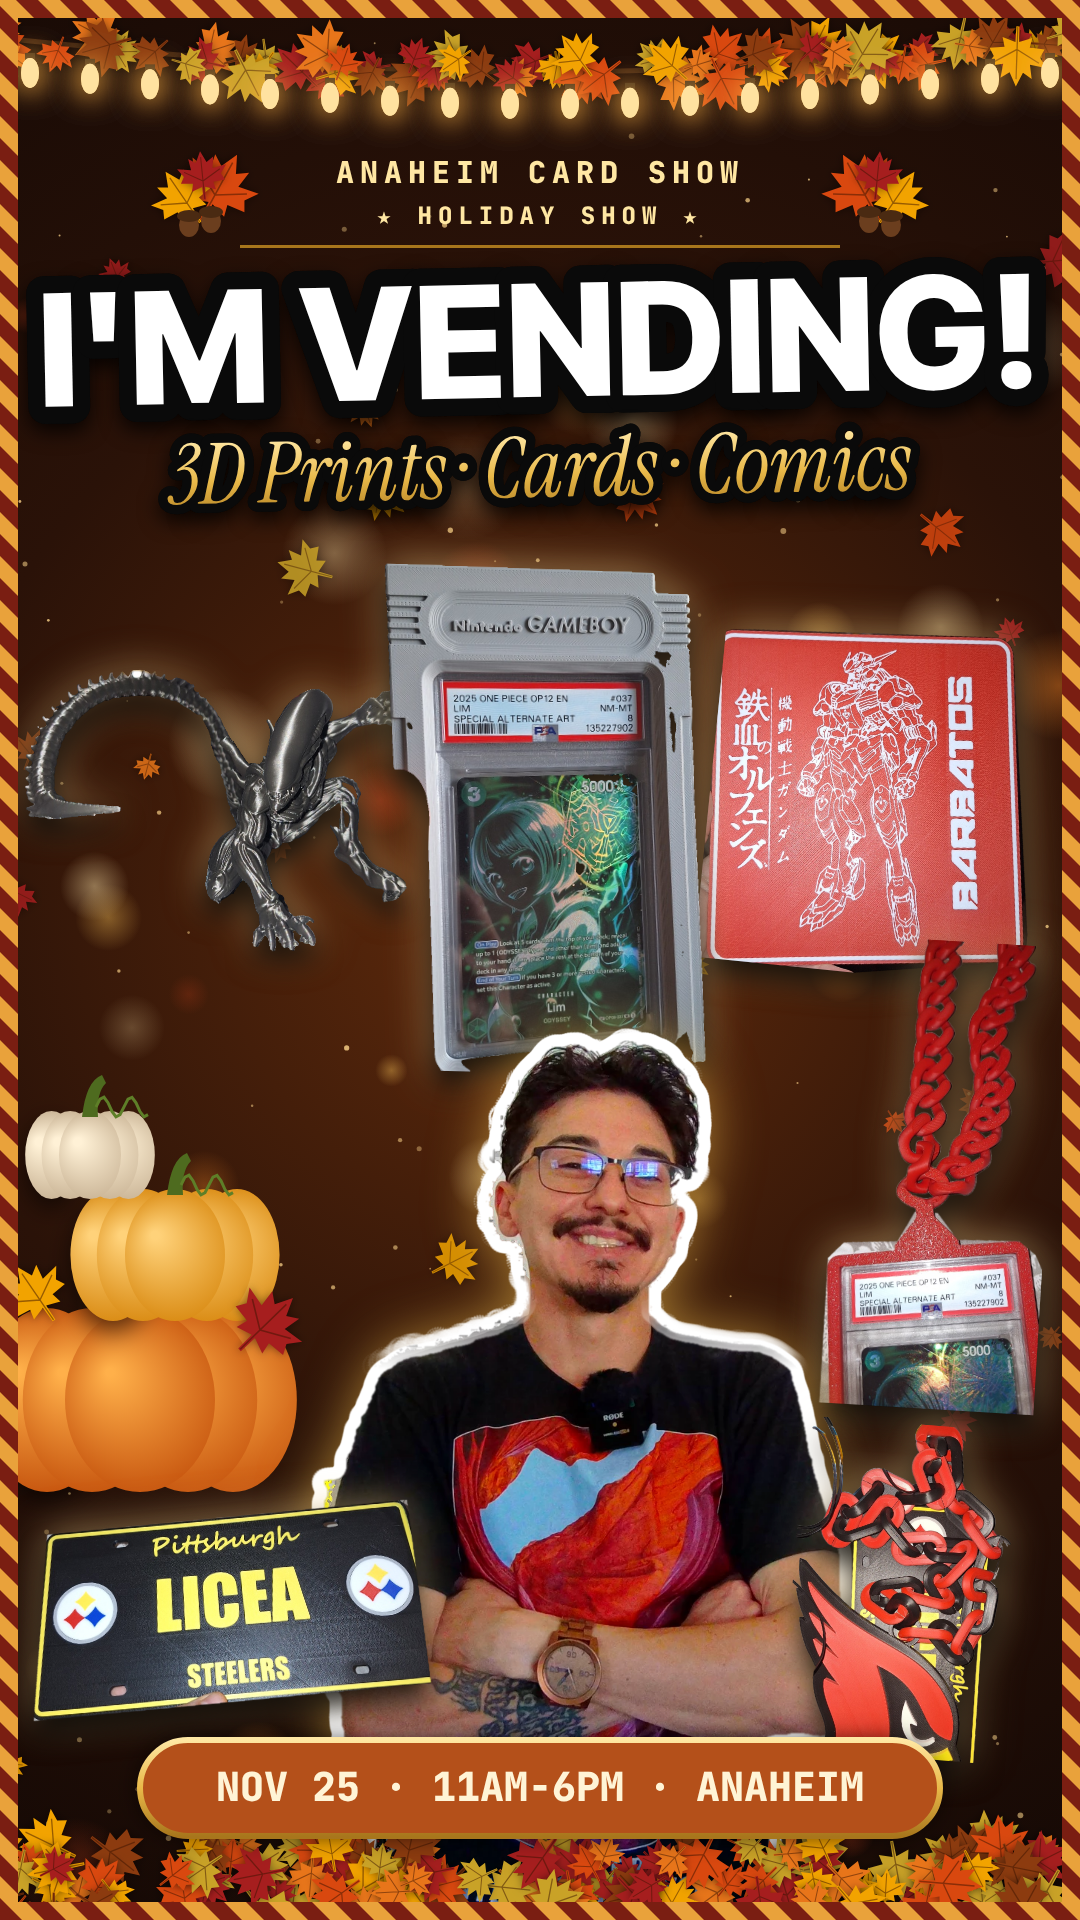
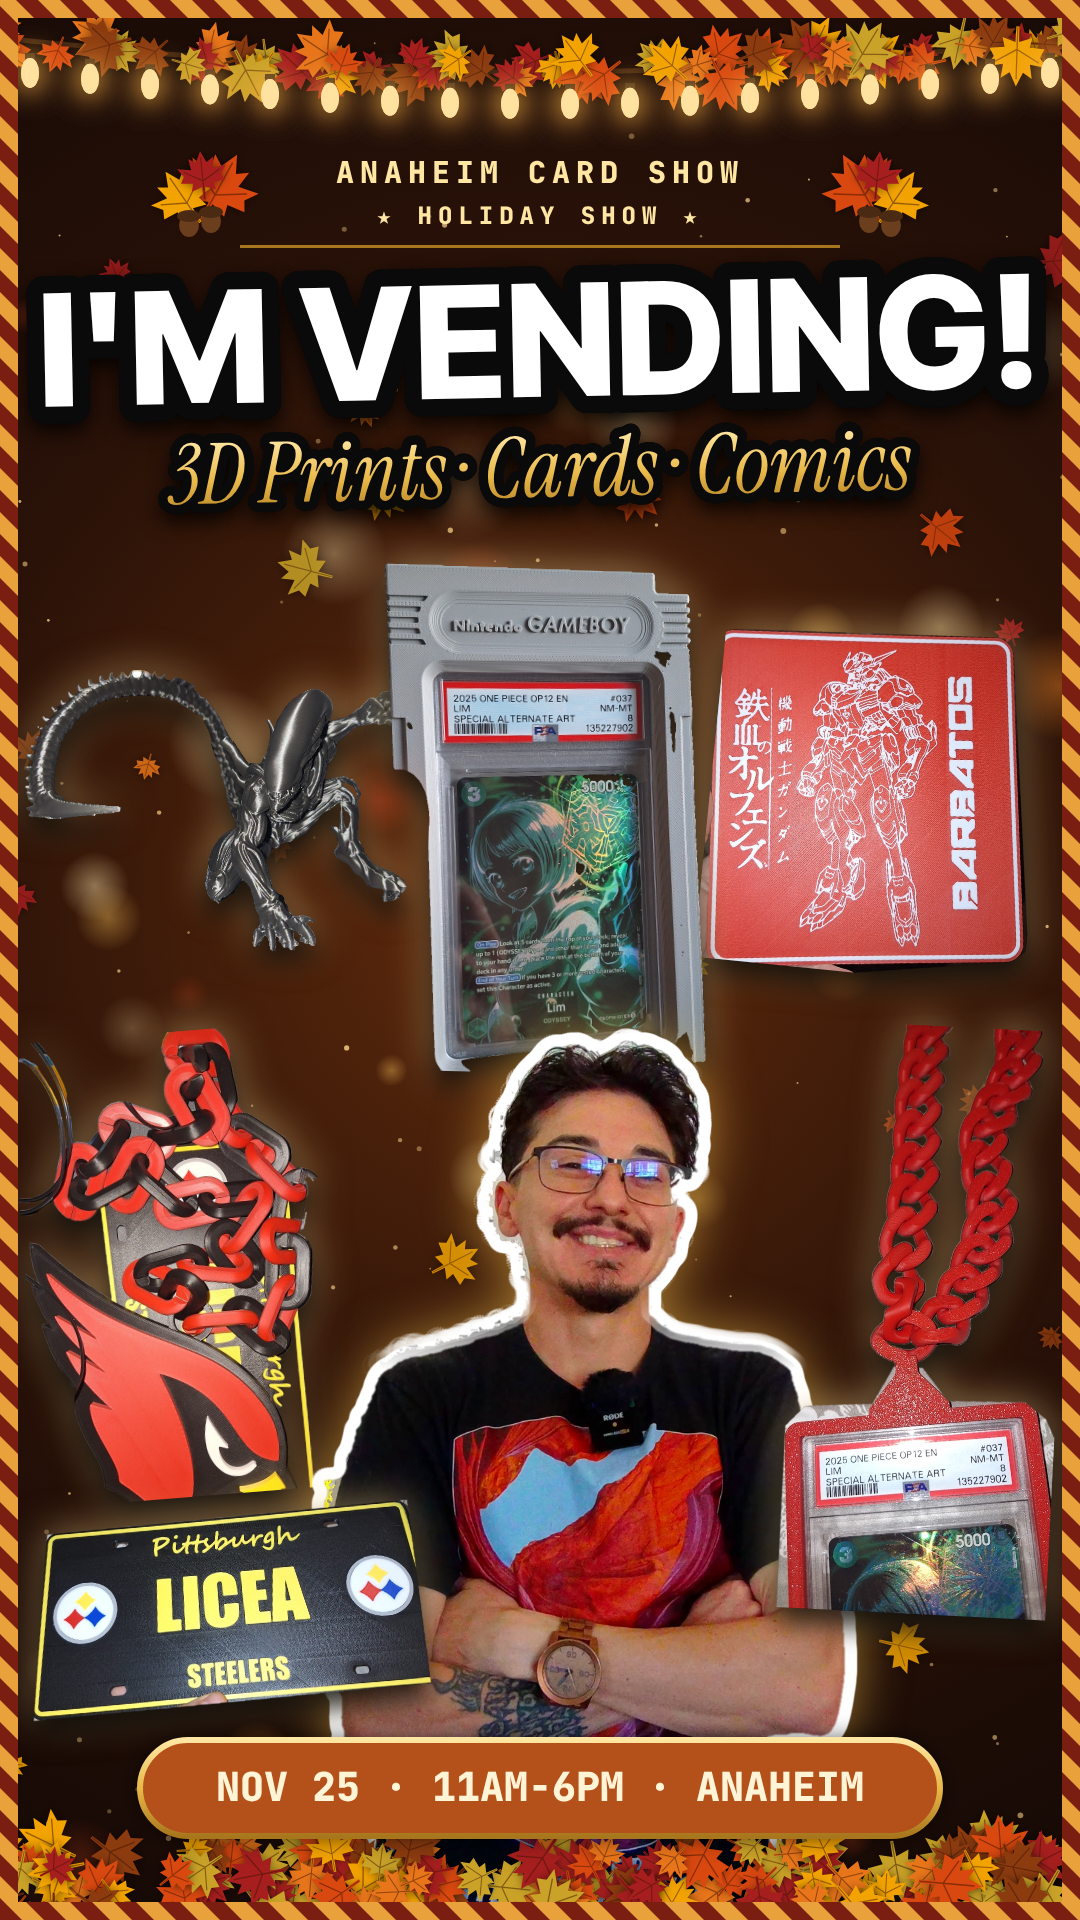
Card show vertical: Cardinals replaces pumpkins, bigger necklace
Claude-Session: https://claude.ai/code/session_01NSJvdmHsHoazKiuuGVQfMY

Changed region(s): [[0.7028, 0.4688, 1.0, 0.9375], [0.0, 0.5312, 0.3056, 0.7812]]

diff --git a/story/cardshow/thumb_vertical.html b/story/cardshow/thumb_vertical.html
@@ -42,14 +42,10 @@ let DATES;
     for (const k of [-0.62, 0.62, -0.32, 0.32, 0]) { const g = c.createRadialGradient(k * rx - rx * 0.2, -ry * 0.3, 4, k * rx, 0, rx * 0.7); g.addColorStop(0, col1); g.addColorStop(1, col2); c.fillStyle = g; c.beginPath(); c.ellipse(k * rx, 0, rx * (0.5 - Math.abs(k) * 0.12), ry, 0, 0, TAU); c.fill(); c.shadowColor = 'transparent'; }
     c.fillStyle = '#4E6B1F'; c.beginPath(); c.moveTo(-8, -ry + 6); c.quadraticCurveTo(-4, -ry - 30, 12, -ry - 36); c.lineTo(16, -ry - 28); c.quadraticCurveTo(6, -ry - 18, 8, -ry + 6); c.closePath(); c.fill();
     c.strokeStyle = '#5E7F28'; c.lineWidth = 3; c.beginPath(); c.moveTo(6, -ry - 4); for (let t = 0; t < 14; t++) c.lineTo(6 + t * 4, -ry - 4 - Math.sin(t * 0.9) * 10); c.stroke(); c.restore(); };
-  pumpkin(140, 1400, 150, 92, '#FFB04A', '#C24E0A');
-  pumpkin(175, 1255, 100, 66, '#FFD27A', '#D98A12');
-  pumpkin(90, 1155, 62, 44, '#FFF1D6', '#CDB89A');
-  leaf(260, 1330, 46, 0.8, '#A61E1E'); leaf(40, 1300, 40, -0.6, '#F2A300');
   item(P.alien, 222, 810, 390, -0.06);
   item(P.barbatos, 875, 800, 330, 0.1);
   item(P.gameboy, 545, 820, 330, 0.02);
-  item(P.psa, 940, 1175, 215, 0.06);
+  item(P.cardinal, 175, 1265, 300, -0.08);
   // ---- headline (top-left)
   c.font = M(800, 30); c.fillStyle = GOLD[0]; c.textBaseline = 'middle'; c.textAlign = 'center'; c.letterSpacing = '6px'; c.fillText('ANAHEIM CARD SHOW', W / 2, 175); c.font = M(800, 24); c.fillText('★ HOLIDAY SHOW ★', W / 2, 217); c.letterSpacing = '0px'; c.textAlign = 'left';
   c.fillStyle = gold(241, 245); c.fillRect(W / 2 - 300, 245, 600, 3);
@@ -66,8 +62,8 @@ let DATES;
   c.save(); c.shadowColor = 'rgba(233,185,73,0.6)'; c.shadowBlur = 50; c.drawImage(off, 0, 0); c.restore(); c.drawImage(me, px, py, pw, ph);
 
   // items over the elbows
+  item(P.psa, 925, 1320, 270, 0.05);
   item(P.steelers, 225, 1610, 400, -0.08);
-  item(P.cardinal, 900, 1590, 215, 0.08);
   // leaf pile along the bottom
   for (let i = 0; i < 140; i++) { const x = rnd() * W, y = 1845 + rnd() * 70; leaf(x, y, 22 + rnd() * 18, rnd() * TAU, FALL[i % FALL.length]); }
   DATES();
